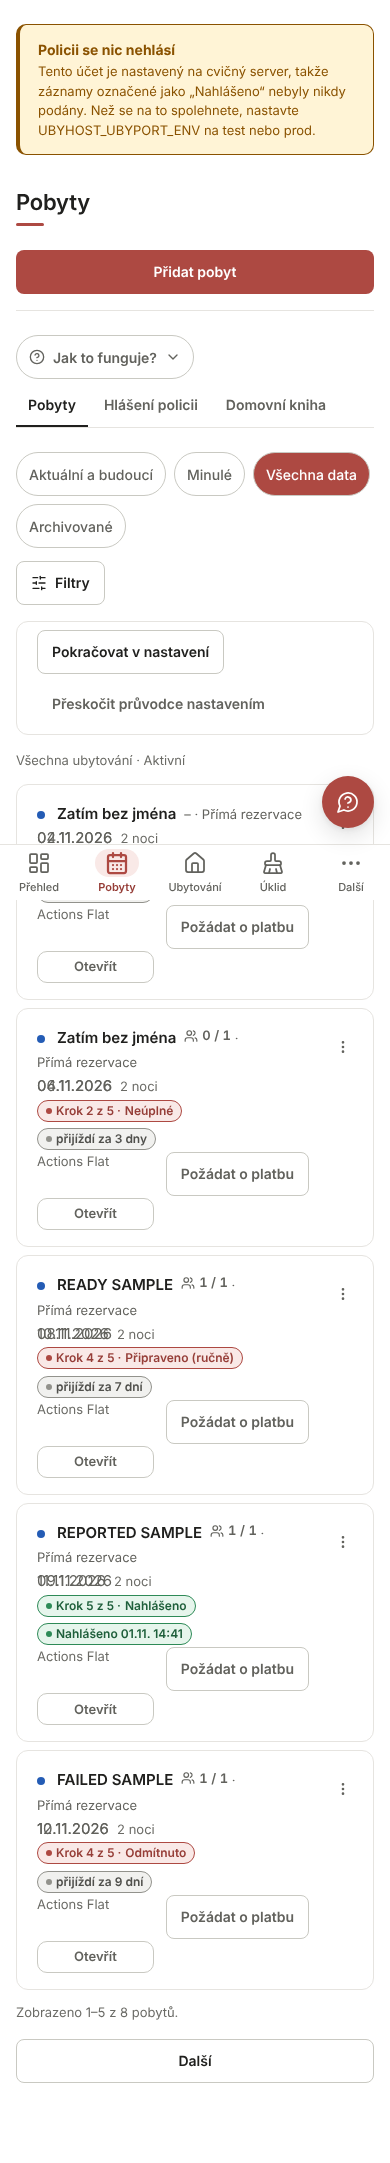
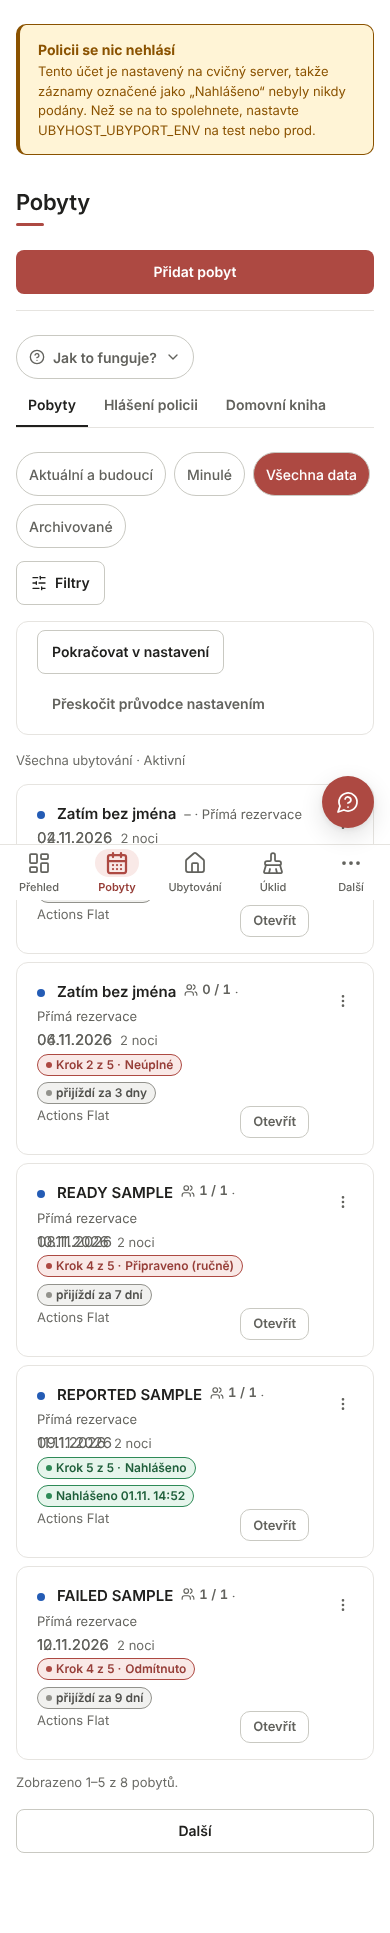
0523 report: payment link in row menu, one browser assertion left
Claude-Session: https://claude.ai/code/session_01Cjmb7MNb7ACpWT9D4r3d8s

diff --git a/docs/tasks/0523-report.md b/docs/tasks/0523-report.md
@@ -65,3 +65,32 @@ None. No existing test was edited. The browser failures above are the layout gua
 
 ## Owner steps left
 - None until the geometry decision above is made.
+
+## Session 3 (executor): request payment moved into the row menu
+Status: blocked
+Done: steps 1 to 7. The only open failure is one browser assertion (below). No push, no PR.
+
+Commits: `06393f4 0523 fix: request payment in row menu` (template, host2.css, base.html `?v=20261101-0523b`, static_versions.json, test, catalog.json). Screenshots recaptured with `UBYHOST_CAPTURE_0523=1` and committed in the next commit.
+
+Command tails:
+- `design_lint.py`: `design lint: OK`
+- `tests/test_static_versions.py --write`: `wrote .../static_versions.json (40 files)`
+- Server set: `25 passed in 5.03s`
+- Browser set (`-rs`): `1 failed, 35 passed in 370.93s (0:06:10)`. Skipped: none.
+  - FAILED `test_stays_pills_and_deadlines_stay_on_one_line` (tests/test_host_list_layouts_browser.py:112): `('en', 1280, {'pill': True, 'deadline': True, 'height': 128.75, ...})`, `assert 128.75 <= 100`.
+
+Findings:
+- The layout-guard failures from session 2 are gone: no `page-scroll` or `past-right-edge` findings on `/reservations` at 1280 px, and `test_stays_fit_lane_at_every_width_and_sidebar_state` passes.
+- The remaining failure is a row height on `/reservations` at 1280 px in English, where the pill and deadline sit on one line but the row is 128.75 px against a 100 px maximum. The row is likely taller because the "Request payment" button no longer sits in the actions cell, or because the pill and deadline wrap. I did not check which. Widths were not changed, as the brief says.
+- Screenshot `reservations-cs-390.png` (card layout, read once): the request-payment link is not visible at 390 px, as intended, since it now lives in the row menu. Dates in some cards appear to overlap their "noci" text, and the fixed bottom nav covers one card. Neither is in the brief scope; not fixed.
+
+## Deviations
+- Done: steps 1 to 7. Left: the failing row-height assertion above (decision needed: raise `SHORT_ROW_MAX` for stays rows, or fix the pill/deadline wrap at 1280 px English).
+- The payment-link test was changed to check the link is a `row-menu-item` (same href). No test asserts the `stay-col-pay` column any more.
+
+## Questions
+- Should `SHORT_ROW_MAX` apply to the stays list at 1280 px, or should the pill and deadline wrap be fixed?
+- Is the date overlap in the 390 px card screenshot pre-existing?
+
+## Owner steps left
+- None until the row-height decision above is made.
